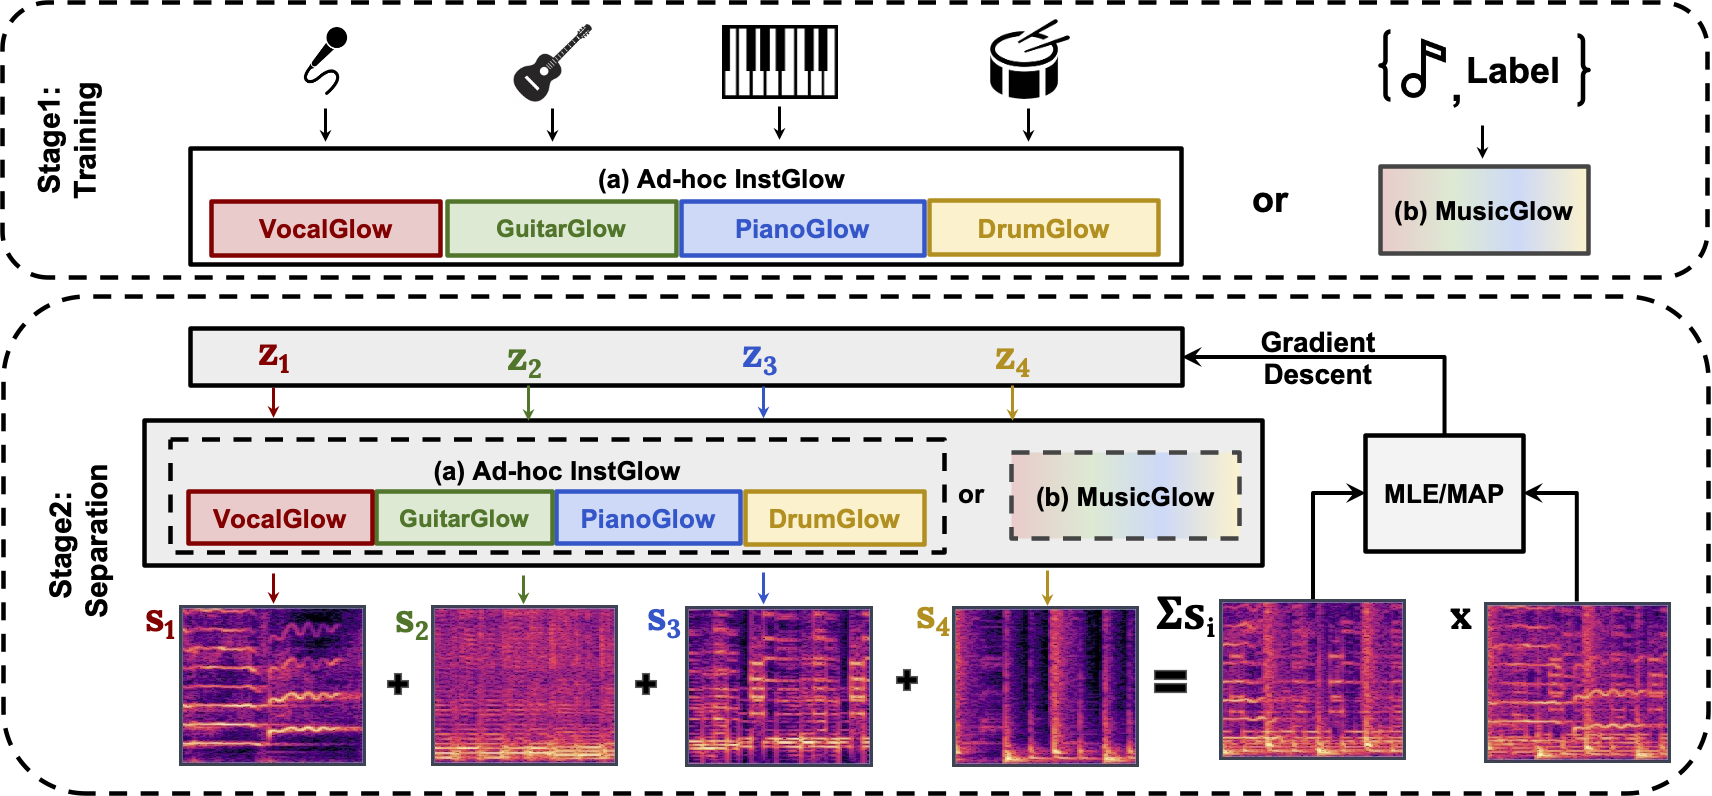
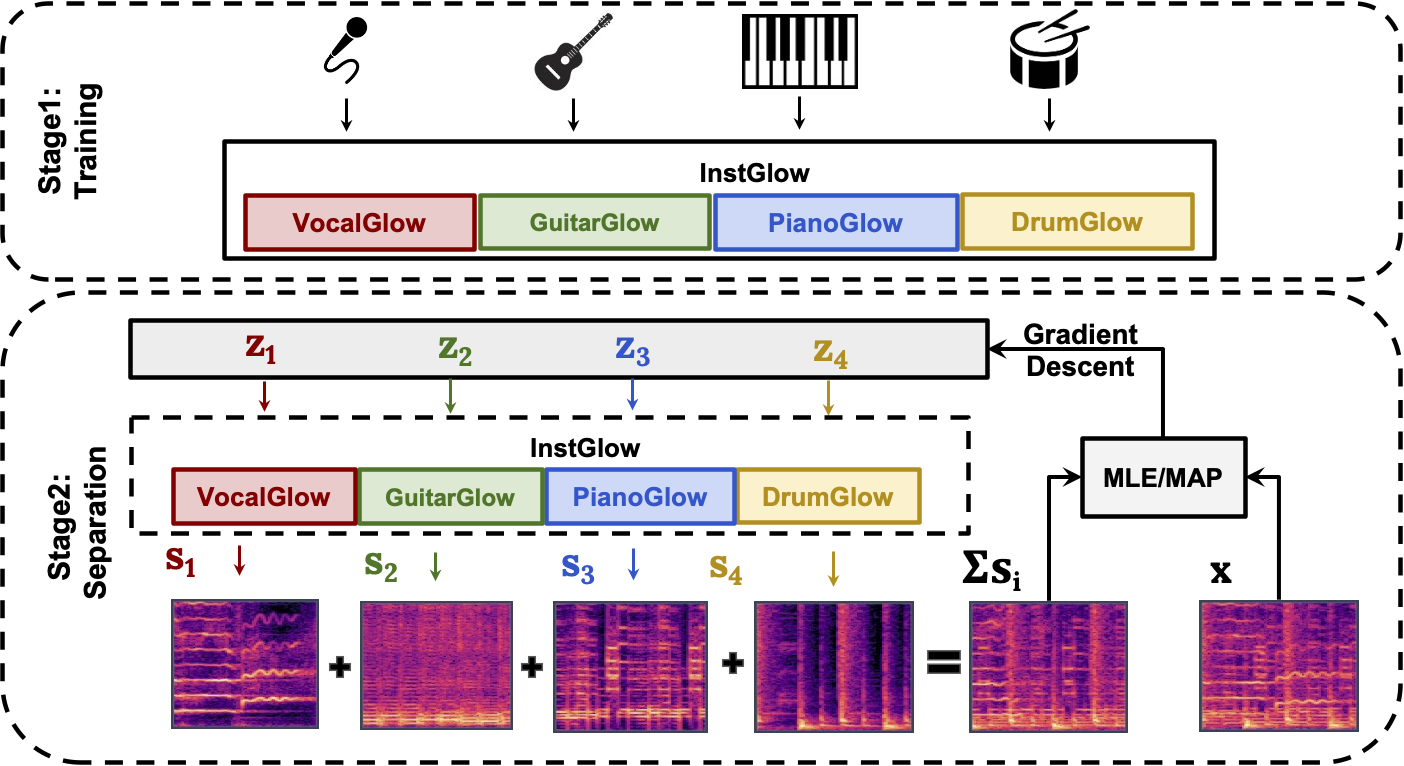
remove conditional glow

diff --git a/musdb_separation.py b/musdb_separation.py
@@ -7,7 +7,7 @@ import torch.nn.functional as F
 import random
 import numpy as np
 import inverse_utils
-from source_separation import music_sep_unc_batch, music_sep_batch
+from source_separation import music_sep_batch
 import pickle
 
 os.environ["CUDA_VISIBLE_DEVICES"] = "3"
@@ -20,7 +20,6 @@ HPS['alpha1'] = 1.0
 HPS['alpha2'] = 0.001
 HPS['iteration'] = 200
 TASK = {'singing':['vocals', 'accompaniment'],
-        'music_conditional':['musdb_conditional'],
         'music':['vocals', 'bass', 'drums', 'other']}
 
 musdbTBRoot = '/storage/ge/musdb18/musdb18_wav/pieces/test_music_separation/'
@@ -28,7 +27,7 @@ glowRoot = '/storage/ge/musdb18/musdb18_wav/pieces/model_test/test_glow/demo_exp
 musdb18List = glob.glob(musdbTBRoot + '*/mixture*.wav')
 modelList = 'music'
     
-def predict_source(genList, stft, musdbMixture, sources, tarFolder, condition):
+def predict_source(genList, stft, musdbMixture, sources, tarFolder):
 
     # read mixture
     sr, mixSample = read(musdbMixture)
@@ -42,7 +41,7 @@ def predict_source(genList, stft, musdbMixture, sources, tarFolder, condition):
         srcs.append(y_src)
     
     # step 1: source separation
-    EstSrc, mixPhase = music_sep_batch(y_mix, genList, stft, condition=condition, **HPS)
+    EstSrc, mixPhase = music_sep_batch(y_mix, genList, stft, **HPS)
 
     # step 2: resynthesizing from linear spectrogram and save GTs
     with open(os.path.join(tarFolder, 'est.pkl'), 'wb') as handle:
@@ -57,26 +56,16 @@ def predict_source(genList, stft, musdbMixture, sources, tarFolder, condition):
         pickle.dump(gt_dict, handle, protocol=pickle.HIGHEST_PROTOCOL)
 
 if __name__ == "__main__":
-    
-    condition = True if 'condition' in modelList else False
 
     # load generators for source separation
     print('Load Glow Generators:...')
     genList = []
     labels = []
-    if not condition:
-        for modelName in TASK[modelList]:
-            genModel, STFTfunc = inverse_utils.load_glow(modelName=modelName, 
-                                                         condition=condition)
-            genList.append(genModel)
-    else:
-        modelName = TASK[modelList][0]
-        genModel, labels2ids, STFTfunc = inverse_utils.load_glow(modelName=modelName, 
-                                                                 condition=condition)
-        labels = list(labels2ids.keys())
-        genList = [genModel, labels, labels2ids]
+    for modelName in TASK[modelList]:
+        genModel, STFTfunc = inverse_utils.load_glow(modelName=modelName)
+        genList.append(genModel)
     
-#     random.shuffle(musdb18List)
+    random.shuffle(musdb18List)
     for musdbMixture in tqdm(musdb18List[:]):
         
         idx = musdbMixture.split('/')[-1].split('-')[-1].split('.wav')[0]
@@ -88,11 +77,11 @@ if __name__ == "__main__":
             continue
         
         sources = []
-        sourcePool =  labels if condition else TASK[modelList]
+        sourcePool =  TASK[modelList]
         
         for modelName in sourcePool:
             inst = modelName.split('_')[0]
             src_path = os.path.join(folderName, inst + '-' + idx + '.wav')
             sources.append(src_path)
-        predict_source(genList, STFTfunc, musdbMixture, sources, tarFolder, condition)
+        predict_source(genList, STFTfunc, musdbMixture, sources, tarFolder)
         

diff --git a/source_separation.py b/source_separation.py
@@ -12,22 +12,15 @@ EPSILON = torch.finfo(torch.float32).eps
 
 def music_sep_batch(mixtures, genList, stft,
                     optSpace, lr, sigma, 
-                    alpha1, alpha2, 
-                    iteration, condition=False, 
+                    alpha1, alpha2, iteration,
                     scheduler_step_size=800, 
                     scheduler_gamma=0.2):
 
     # freeze generators weights
-    if condition:
-        gen, labels, labels2ids = genList
-        numGen = len(labels)
-        for param in gen.parameters():
+    numGen = len(genList)
+    for genUnc in genList:
+        for param in genUnc.parameters():
             param.requires_grad = False
-    else:
-        numGen = len(genList)
-        for genUnc in genList:
-            for param in genUnc.parameters():
-                param.requires_grad = False
     
     # compute spectrogram from mixture and cancel the log
     mixSpecs, mixPhases = inverse_utils.get_spec(mixtures, stft) # 513 * T
@@ -54,17 +47,8 @@ def music_sep_batch(mixtures, genList, stft,
         z_masks = []
         for j in range(numGen):
 
-            if condition:
-                label = labels[j]
-                tar_id = labels2ids[label]
-                tar_sid = torch.IntTensor([tar_id]).cuda().long()
-            else:
-                tar_sid = None
-                gen = genList[j]
-
-            xTemp, logdet, z_mask = gen(zCol[:, j, :, :], segLenTensor, 
-                                        g=tar_sid, gen=True) # full batch for each source
-            
+            gen = genList[j]
+            xTemp, logdet, z_mask = gen(zCol[:, j, :, :], segLenTensor, gen=True)
             logdets.append(-logdet) # logdet in reverse gives log|dx/dz|, we want log|dz/dx|
             mixSynSpecs += xTemp
             xCol.append(xTemp)

diff --git a/generator/glow/data_utils.py b/generator/glow/data_utils.py
@@ -32,8 +32,6 @@ class SpecLoader(torch.utils.data.Dataset):
         audiopath = audiopath_[0]
         spec = self.compute_spec(audiopath)
         spec = F.pad(spec, (0, 0, 0, 1), "constant", 0.0)
-#         spec_add = spec[-1, :] + EPSILON
-#         spec = torch.cat((spec, spec_add.unsqueeze(0)), 0)
         return spec
 
     def compute_spec(self, filename):

diff --git a/generator/glow/README.md b/generator/glow/README.md
@@ -3,7 +3,7 @@
 Unconditional audio generator Glow 
 
 ## Introduction
-We provide uncontional generator training using MUSDB18 for modeling source priors, conditional version is easy to implement based on unconditional version. In Glow generator training, we use apex from NVIDIA.
+We provide uncontional generator training using MUSDB18 for modeling source priors. In Glow generator training, we use apex from NVIDIA.
 
 ## Usage
 ### Dataset:
@@ -25,15 +25,12 @@ python train_musdb.py -m {musdb} -c ./configs/{musdb}.json
 
 Replace {musdb} with one of instruments previously defined in `musdb18_data_prep.py`.
 
-
 ## Pretrained models:
 
 ### model
 Download this file, unzip and move every folder to `./logs`
 ([Pretrained model folder](https://drive.google.com/file/d/16_L8-f1mYZ7oHnoxDpVTjAEpDHeBEb2y/view?usp=sharing))
 
-
 ## References
 
 [GlowTTS](https://github.com/jaywalnut310/glow-tts)
-
